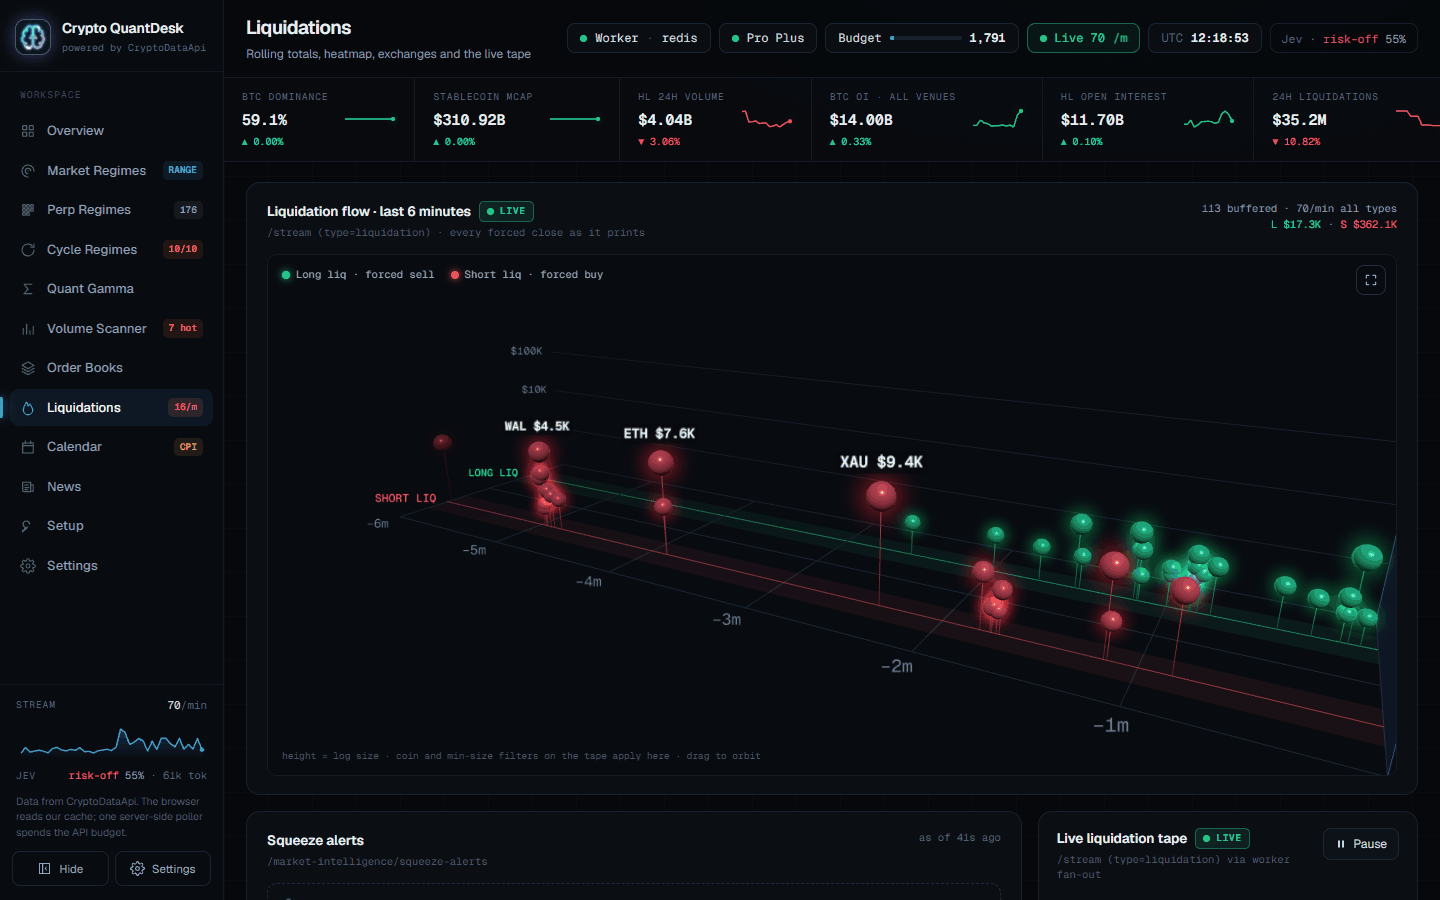
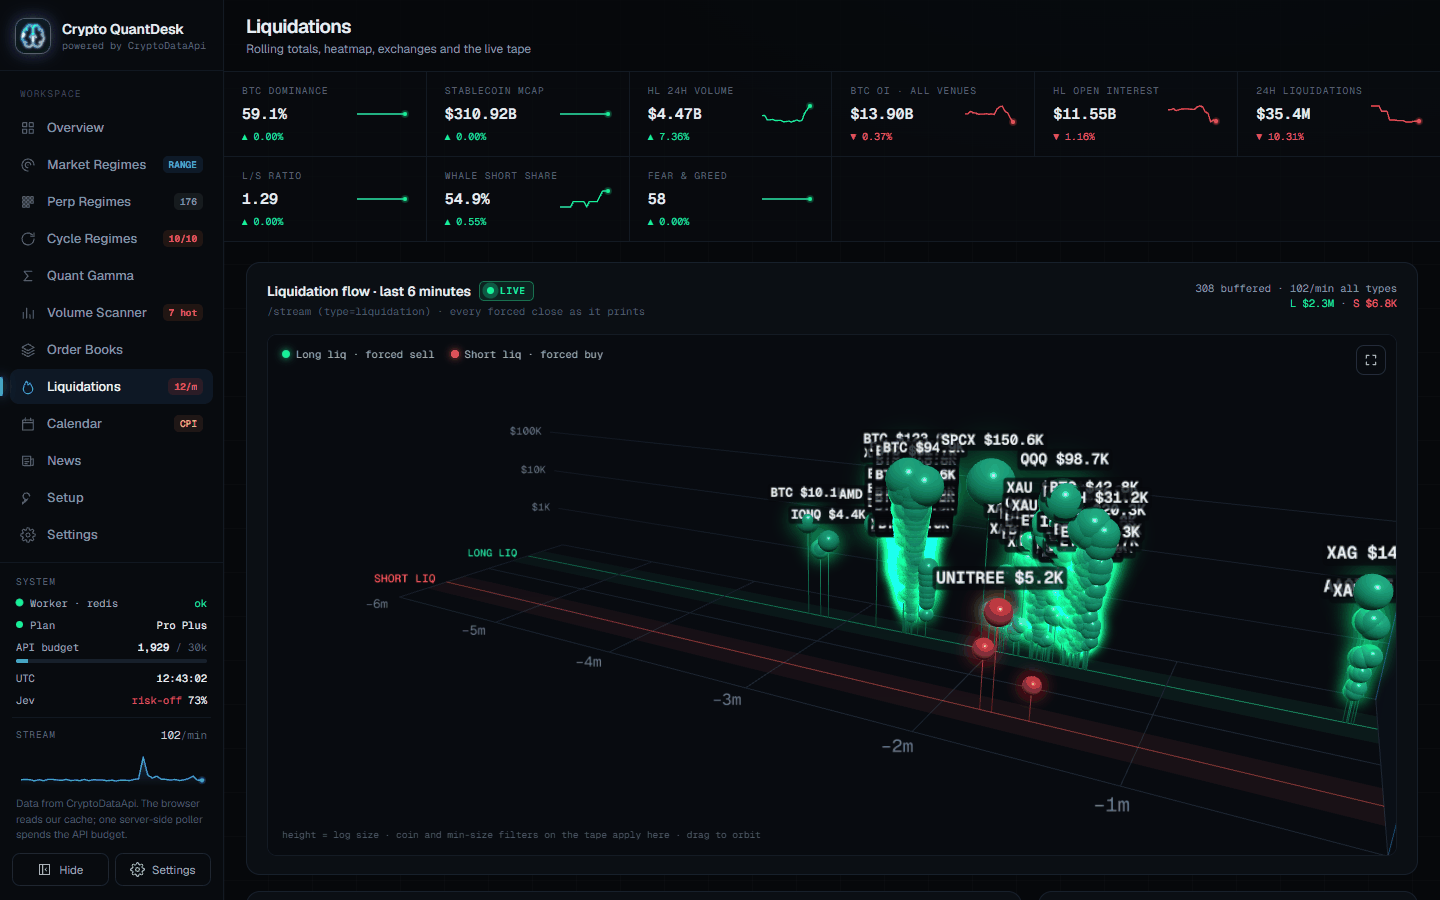
Retake the README screenshots on the sidebar layout; add Settings and Setup
All ten screenshots are new captures of the deployed layout from a local
instance with live Pro Plus data at 1440x900 (14 Oct 2026, 12:41 to 12:46
UTC), with status in the sidebar SYSTEM block and the KPI tiles on every
page but Overview. Settings and Setup join the gallery. The README text
follows the layout: the SYSTEM block, the STREAM label for a delayed or
replayed tape, the API budget row, Jev's sidebar row and the KPI tiles.

diff --git a/README.md b/README.md
@@ -50,7 +50,17 @@ computes.
       <b>Calendar.</b> Thirty days of unlocks, macro prints and depegs as a runway toward now, with the event risk score and the catalyst table.
     </td>
     <td width="50%" valign="top">
-      <b>Also in the app:</b> Perp Regimes (the regime grid for every perp), News (the catalyst tape with CDA's bias and Jev's read), Setup (keys and a copyable agent prompt) and Settings.<br><br>
+      <a href="docs/screenshots/settings.png"><img src="docs/screenshots/settings.png" alt="Settings page"></a><br>
+      <b>Settings.</b> Display and live-feed toggles saved in this browser, the default focus coin, Jev's usage today and where the numbers on screen come from.
+    </td>
+  </tr>
+  <tr>
+    <td width="50%" valign="top">
+      <a href="docs/screenshots/setup.png"><img src="docs/screenshots/setup.png" alt="Setup page"></a><br>
+      <b>Setup.</b> Which keys are configured (never the keys themselves), what each one unlocks, and the agent prompt that clones, configures and starts the dashboard.
+    </td>
+    <td width="50%" valign="top">
+      <b>Also in the app:</b> Perp Regimes (the regime grid for every perp) and News (the catalyst tape with CDA's bias and Jev's read).<br><br>
       Screenshots are from a local instance with a Pro Plus key, 14 Oct 2026.
     </td>
   </tr>
@@ -73,10 +83,11 @@ computes.
 | `/setup` | Setup | none: keys, demo status and the agent prompt below |
 | `/settings` | Settings | none: display, live feed, Jev, data mode and key status |
 
-Every page shares the sidebar (live badges per page: current regime, perps tracked, cycle phase,
-hot perps, liquidations per minute, today's macro print; the stream-rate graph and a one-line Jev
-read in its footer), the status pills (worker and cache, plan, daily budget, stream rate, UTC
-clock, Jev) and the KPI row, whose sparklines show history the worker records every 5 minutes.
+Every page shares the sidebar: live badges per page (current regime, perps tracked, cycle phase,
+hot perps, liquidations per minute, today's macro print), a SYSTEM block (worker and cache, plan,
+daily API budget, UTC clock and Jev's market read) and the stream-rate graph. Every page but
+Overview also shows its title and the KPI tiles, whose sparklines show history the worker records
+every 5 minutes.
 Every panel shows a "data as of" time, a stale tag, and an explicit state when there is no data:
 waiting for the first poll, Pro plan required, key rejected, rate limited, daily budget reached,
 fetch failed, worker offline, or not in the demo data.
@@ -96,6 +107,8 @@ through small adapters instead of the prototype's mock engine. three.js loads on
 without 3D never download it.
 
 - Every 3D view orbits by drag and has a fullscreen button; auto-rotate follows the setting.
+- Status sits in the sidebar's SYSTEM block, as in the prototype. Overview opens straight onto
+  its views; the other pages add the page title and the KPI tiles.
 - Display settings live in the browser under `cq.ui`: sidebar, live feed (off freezes the tape
   and pauses the L2 ladder), auto-rotate, tape rows, default focus coin, Jev reads and KPI
   sparklines. The sidebar's Settings button opens the quick toggles; `/settings` has all of them
@@ -209,9 +222,9 @@ The dashboard runs without any key, from real responses saved in [docs/samples](
   reads. While CDA itself is in demo, Jev is not called even with a key, because it would only
   classify saved samples.
 - **Live tape.** The tape plays CDA's free `/api/v1/stream/delayed` preview at its original pace
-  (about 30 minutes behind; the stream pill reads Delayed). If the preview fails twice, the worker
-  replays the saved stream captures instead (the pill reads Replay) and retries the preview every
-  10 minutes. `STREAM_SOURCE=replay` forces the replay.
+  (about 30 minutes behind; the sidebar's STREAM label reads DELAYED). If the preview fails twice,
+  the worker replays the saved stream captures instead (the label reads REPLAY) and retries the
+  preview every 10 minutes. `STREAM_SOURCE=replay` forces the replay.
 - **Banner.** Every page shows a demo banner with the capture window and links to `/setup`, and
   `/api/status` reports `worker.demo`.
 - **KPI sparklines.** The keyless worker serves the KPI history a live worker recorded, saved in
@@ -246,7 +259,8 @@ and the deploy. It needs **Settings > Pages > Source: GitHub Actions** once per 
 - **Replayed tape.** The browser replays the saved stream captures itself, re-stamped to now.
 - **Capture times.** Panels show the "Demo sample" badge instead of an as-of time, so nothing turns
   stale; the badge tooltip gives the capture time.
-- **No server.** There are no `/api` routes; the status pill reads a static document.
+- **No server.** There are no `/api` routes; the sidebar's SYSTEM block reads a static status
+  document.
 
 ## Environment variables
 
@@ -292,7 +306,7 @@ Build-time only, for the static export: `NEXT_PUBLIC_DATA_MODE=static` (set by `
   | poller: dataset registry -> fetch -> Zod drift check -> envelope          |
   | stream relay: 1 SSE connection to CDA -> ring buffer (5,000 events)       |
   | demo: docs/samples -> seeded envelopes and stream replay when keyless     |
-  | KPI recorder: header KPIs from the cache every 5 min, 24h kept            |
+  | KPI recorder: KPI values from the cache every 5 min, 24h kept             |
   | HTTP :4100  /healthz  /status  /data/:dataset  /kpi-history  /stream      |
   ---------------------------------------------------------------------------
           | envelopes, heartbeat, call counters        ^ on-demand interest
@@ -303,7 +317,7 @@ Build-time only, for the static export: `NEXT_PUBLIC_DATA_MODE=static` (set by `
   apps/web (Next.js 15) ------------------------------------------------------
   | /api/data/[dataset]  reads Redis; falls back to the worker's /data        |
   | /api/status          worker heartbeat, budget, stream state and rate      |
-  | /api/kpi-history     recorded header KPIs (Redis, then the worker)        |
+  | /api/kpi-history     recorded KPI values (Redis, then the worker)         |
   | /api/stream          same-origin SSE proxy to the worker's /stream        |
   | pages: TanStack Query on /api/data, EventSource on /api/stream            |
   ---------------------------------------------------------------------------
@@ -326,7 +340,7 @@ Build-time only, for the static export: `NEXT_PUBLIC_DATA_MODE=static` (set by `
 - **Redis fallback.** If Redis is unset or down, the worker keeps an in-memory cache and the
   web app reads through the worker's `/data` route. If neither is reachable the UI shows
   "Worker offline".
-- **Recorded history.** CDA has no intraday history for the header KPIs, so the worker samples
+- **Recorded history.** CDA has no intraday history for the KPI tiles, so the worker samples
   them from its own cache every 5 minutes (no extra calls) and keeps 24 hours, in memory and in
   Redis. The stream hub reports events per minute for the last 40 minutes. Both start empty on a
   fresh install and fill in as the worker runs.
@@ -365,12 +379,12 @@ enforced in four layers.
    retried: the envelope records `unauthorized` or `pro_required` and the worker re-checks hourly.
 2. **Daily counter.** Every keyed HTTP attempt increments `cqd:calls:<UTC date>` plus per-dataset
    and per-status hashes (kept 3 days). A restarted worker reads today's count back from Redis.
-   The header's Budget pill shows calls used today.
+   The API budget row in the sidebar's SYSTEM block shows calls used today.
 3. **Governor (per day).** The worker compares calls used with a pace line (the daily budget spread
    evenly over the UTC day, plus 4% slack for startup). Ahead of the line it stretches every
    interval by 2x (4x past 95% of the budget). Within 25 calls of the budget, or when the whole
    key is within 1% of its daily limit, it pauses keyed polling until 00:00 UTC and panels show
-   "Daily budget reached". The Budget pill shows the dashboard's calls and the whole key's usage.
+   "Daily budget reached". The row's tooltip shows the dashboard's calls and the whole key's usage.
 
 Scheduled load at the registry's intervals is **327 calls/hour (7,848/day)**, about a quarter of the
 dashboard's budget. The L2 ladder is the most expensive on-demand dataset at 240 calls/hour while
@@ -440,9 +454,9 @@ caches the answers as three datasets. The web app reads them like any other data
 | `jev-squeeze` | Each active squeeze alert, with the coin's regime probabilities and liquidity regime | `cascade` noul: a genuine cascade likely to continue over the next hour | Every minute; one call per symbol, direction and UTC hour |
 | `jev-market-verdict` | Market regime, market health, cycle regime, news pulse top 10, squeeze summary, event risk | `stance` choice (risk_on, risk_off, neutral), `vol_expansion_24h` noul, `conviction` score 0 to 4 | Every 15 minutes |
 
-Where it shows, kept quiet: a muted "Jev · risk-off 62%" pill in the status row that opens the
-market read (stance, 24h vol expansion, conviction and a "what Jev saw" list of input as-of
-times), a one-line read in the sidebar footer, a small mark beside CDA's bias on each `/news` row
+Where it shows, kept quiet: one muted "Jev  risk-off 62%" row in the sidebar's SYSTEM block that
+opens the market read (stance, 24h vol expansion, conviction and a "what Jev saw" list of input
+as-of times), a small mark beside CDA's bias on each `/news` row
 (with "≠ CDA" when the direction differs from the sign of CDA's bias, and an agree/disagree
 filter), the same mark in coin drawers, and a cascade mark on squeeze alerts. Settings can hide
 all of it.
@@ -452,7 +466,7 @@ event, 1,100 for a squeeze alert and 2,700 for the market verdict. A quiet day i
 96 verdicts (260k tokens) plus a handful of new news events and alerts, so about 0.3M input tokens
 and 150 calls. The first run on a fresh Redis also classifies the whole 7-day news tape once (about
 33 events, 20k tokens). Daily calls and input tokens are counted (`cqd:jev:<date>:*` in Redis) and
-capped by `JEV_DAILY_CALLS` and `JEV_DAILY_INPUT_TOKENS`; the header's Jev pill and
+capped by `JEV_DAILY_CALLS` and `JEV_DAILY_INPUT_TOKENS`; `/settings` and
 `/api/status` (`jev` block) show the counts, the model and the last error.
 
 **Failures.** The SDK retries 408, 429 and 5xx with backoff and honours `Retry-After`; a 429 also
@@ -479,8 +493,8 @@ crypto-quant-dashboard/
     web/                    Next.js 15 App Router, Tailwind v4, shadcn-style UI, TanStack Query
       src/app/              pages and /api routes (route.api.ts: data, status, stream)
       src/cq/               ported prototype views: canvas charts, three.js scenes, adapters, theme
-      src/components/       app shell (sidebar, status pills, KPI row, settings popover, demo
-                            banner), Panel (freshness + states), ui primitives
+      src/components/       app shell (sidebar and its SYSTEM block, KPI tiles, settings popover,
+                            demo banner), Panel (freshness + states), ui primitives
       src/features/         one folder per page area (overview, market, regimes, gamma, volume,
                             books, liquidations, calendar, news, jev, setup, settings)
       src/lib/              hooks (datasets, stream, clock), live tape, settings (cq.ui), mode.ts
@@ -491,7 +505,7 @@ crypto-quant-dashboard/
       src/budget.ts         daily budget governor
       src/cache.ts          memory cache with Redis mirror, demand set, call counters
       src/demo.ts           keyless demo: loads docs/samples, seeds envelopes, stream replay events
-      src/kpi-history.ts    header KPI recorder (every 5 minutes, 24 hours kept)
+      src/kpi-history.ts    KPI tile recorder (every 5 minutes, 24 hours kept)
       src/stream/           CDA SSE relay, delayed preview, demo replay, fan-out hub
       src/jev/              TypeSafe Jev client (SDK wrapper), question sets, state builders, classifier
       src/http.ts           /healthz, /status, /data/:dataset, /stream
@@ -536,8 +550,8 @@ crypto-quant-dashboard/
 - **Depth heatmap from CDA's own history.** The ±50 bps heatmap uses
   `/liquidity/depth/{coin}?minutes=360` instead of snapshots we would have to accumulate, so it is
   complete the moment a coin is focused.
-- **Header KPI row.** None of the Phase 1 endpoints exposes total crypto market cap or total
-  24h volume. The row shows stablecoin market cap and Hyperliquid 24h volume in their place,
+- **KPI tiles.** None of the Phase 1 endpoints exposes total crypto market cap or total
+  24h volume. The tiles show stablecoin market cap and Hyperliquid 24h volume in their place,
   plus BTC dominance and 24h liquidations from `/regimes` signals, BTC OI across venues, Hyperliquid
   OI, the BTC long/short ratio, whale short share and Fear & Greed.
 - **Playbook leverage.** `/regimes` publishes directional bias and typical duration but no leverage
@@ -548,9 +562,10 @@ crypto-quant-dashboard/
   automatically from `/auth/keys/me` if the key's tier changes.
 - **Demo from saved responses.** Keyless runs and the static site show real captured data with a
   badge, rather than empty "API key not configured" panels.
-- **Status pills in the header.** The exported prototype moves worker, plan, budget and clock into
-  a sidebar block and leaves its KPI row empty; the app keeps the status pill row and the KPI row
-  with sparklines shown in the prototype's reference screenshots.
+- **Status in the sidebar.** As in the exported prototype, worker, plan, budget, clock and Jev's
+  read sit in the sidebar's SYSTEM block and Overview has no page header. The prototype's KPI row
+  is an empty template, so the other pages show KPI tiles with recorded sparklines in the style of
+  its reference screenshot (`docs/design/check.jpg`).
 - **Prototype numbers CDA lacks.** The squeeze radar plots only the coins CDA lists (those at or
   above the alert severity); the cycle view shows stability instead of "progress through phase"
   and CDA's bias, horizon, description and rationale instead of a written playbook; the liquidity
